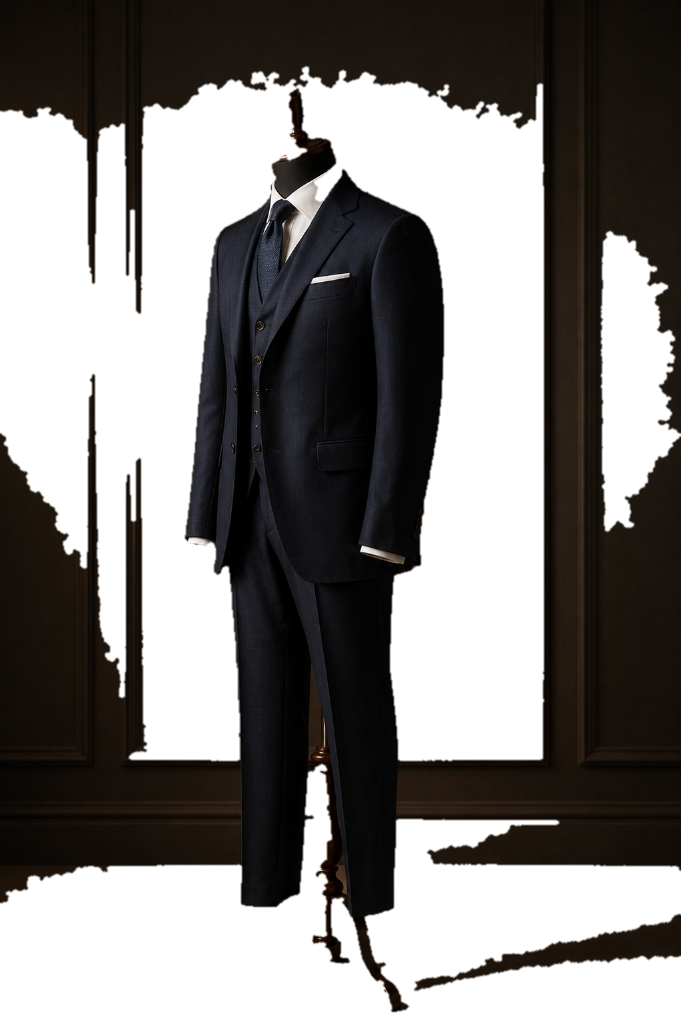
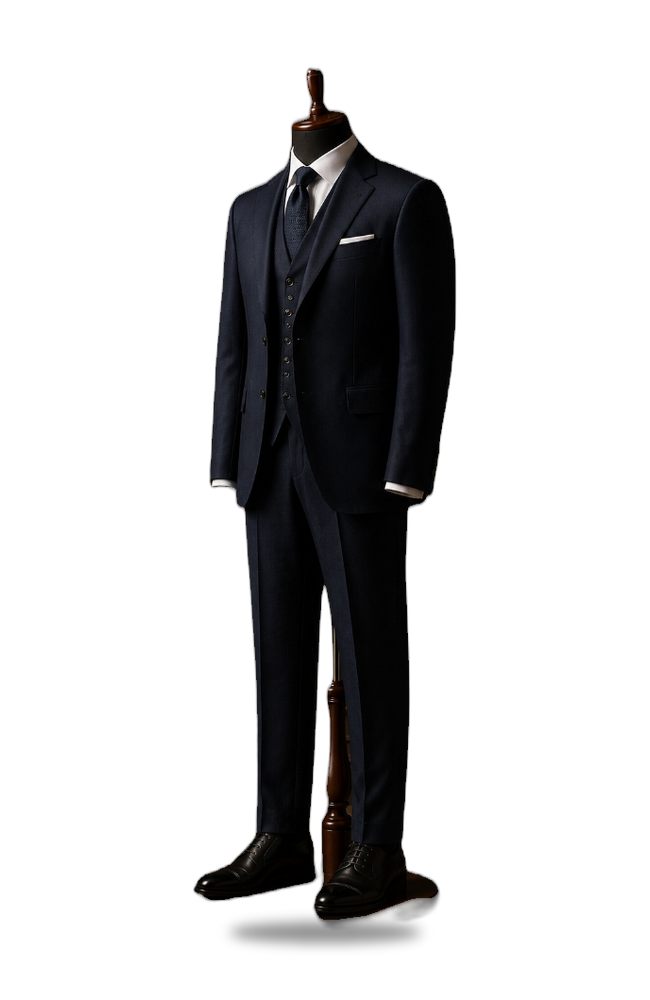
Update formal suit mannequin cutout image and refine Our Story minimal link style

diff --git a/index.html b/index.html
@@ -759,25 +759,22 @@
                 <img src="assets/mannequin_wedding_sherwani_transparent.png" alt="TOOFIT Bespoke Royal Wedding Sherwani" class="w-full h-full object-contain filter drop-shadow-[0_12px_24px_rgba(0,0,0,0.18)]">
             </div>
 
-            <!-- Center: Framed Studio Manifesto Image with "OUR STORY" Button OVERLAID ON TOP OF IMAGE AT THE BOTTOM END -->
+            <!-- Center: Framed Studio Manifesto Image with minimal "OUR STORY" link -->
             <div class="relative flex-1 max-w-[840px] mx-auto rounded-2xl overflow-hidden shadow-2xl border border-[#E3D9CD] bg-white group">
                 <img src="assets/brand_manifesto_studio_4k.jpg" alt="TOOFIT Studio - Crafted With Passion Defined By Excellence" class="w-full h-auto object-cover rounded-2xl block transition-transform duration-700 group-hover:scale-[1.015]">
                 
-                <!-- Overlay Gradient for Crisp Button Contrast at Bottom -->
-                <div class="absolute inset-x-0 bottom-0 h-32 bg-gradient-to-t from-black/60 via-black/25 to-transparent pointer-events-none z-10 rounded-b-2xl"></div>
-
-                <!-- Positioned OUR STORY Button ON TOP OF THE IMAGE at the bottom end -->
-                <div class="absolute bottom-4 sm:bottom-6 md:bottom-8 left-1/2 transform -translate-x-1/2 z-20 w-auto text-center">
-                    <a href="#story" class="group/btn inline-flex items-center gap-3 px-6 sm:px-8 py-2.5 sm:py-3.5 rounded-full bg-black/50 hover:bg-black/80 backdrop-blur-md border border-white/40 hover:border-white/80 text-white text-xs sm:text-sm font-sans uppercase font-medium tracking-[0.28em] shadow-2xl transition-all duration-300 hover:scale-105">
-                        <span class="underline underline-offset-8 decoration-1 decoration-white/70 group-hover/btn:decoration-white">Our Story</span>
-                        <svg class="w-4 h-4 text-[#D4AF37] transition-transform duration-300 group-hover/btn:translate-x-1.5" fill="none" stroke="currentColor" viewBox="0 0 24 24"><path stroke-linecap="round" stroke-linejoin="round" stroke-width="2" d="M17 8l4 4m0 0l-4 4m4-4H3"/></svg>
+                <!-- Positioned Minimal OUR STORY Link (No background, underline only) Centered at Bottom of Image -->
+                <div class="absolute bottom-6 sm:bottom-8 md:bottom-10 left-1/2 transform -translate-x-1/2 z-20 w-auto text-center">
+                    <a href="#story" class="group/btn inline-flex items-center gap-2.5 text-[#231B15] hover:text-[#8B3A2B] text-xs sm:text-sm font-sans uppercase font-medium tracking-[0.28em] transition-colors duration-300">
+                        <span class="underline underline-offset-8 decoration-1.5 decoration-[#8B3A2B] group-hover/btn:decoration-[#D4AF37] transition-colors">Our Story</span>
+                        <svg class="w-4 h-4 text-[#8B3A2B] group-hover/btn:text-[#D4AF37] transition-transform duration-300 group-hover/btn:translate-x-1" fill="none" stroke="currentColor" viewBox="0 0 24 24"><path stroke-linecap="round" stroke-linejoin="round" stroke-width="1.8" d="M17 8l4 4m0 0l-4 4m4-4H3"/></svg>
                     </a>
                 </div>
             </div>
 
             <!-- Right Side: Formal Suitwear Mannequin Cutout (No Background) -->
             <div class="hidden md:flex flex-col items-center justify-center w-[220px] lg:w-[270px] xl:w-[300px] h-[520px] shrink-0 transition-transform duration-500 hover:scale-105">
-                <img src="assets/mannequin_formal_suit_transparent.png" alt="TOOFIT Bespoke Formal Suitwear" class="w-full h-full object-contain filter drop-shadow-[0_12px_24px_rgba(0,0,0,0.18)]">
+                <img src="assets/mannequin_formal_suit_transparent.png?v=3" alt="TOOFIT Bespoke Formal Suitwear with Shoes" class="w-full h-full object-contain filter drop-shadow-[0_12px_24px_rgba(0,0,0,0.18)]">
             </div>
 
         </div>
